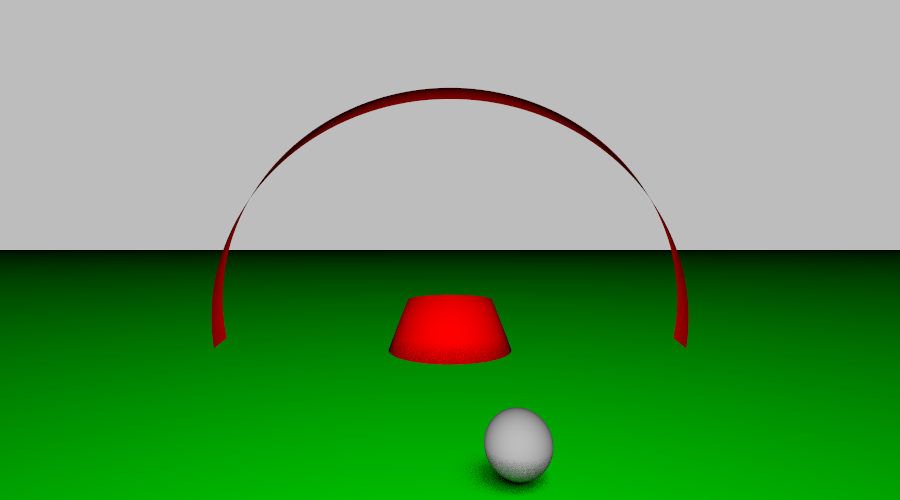
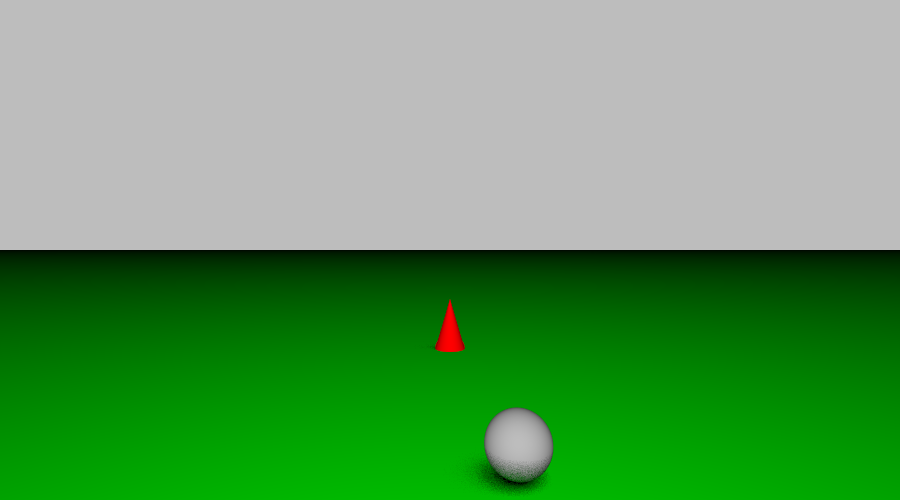
The ConeTestApp works now!

diff --git a/cgg-abgaben/src/cgg/Cone.java b/cgg-abgaben/src/cgg/Cone.java
@@ -26,7 +26,7 @@ public class Cone implements Shape {
 		Point x0 = Vector.subtract(ray.origin, m);
 
 		double a = Math.pow(ray.d.x, 2) + Math.pow(ray.d.z, 2) - Math.pow(r * ray.d.y / h, 2);
-		double b = 2 * (x0.x * ray.d.x + x0.z * ray.d.z + r * r * ray.d.y / h * (1 + x0.y / h));
+		double b = 2 * (x0.x * ray.d.x + x0.z * ray.d.z + r * r * ray.d.y / h * (1 - x0.y / h));
 		double c = x0.x * x0.x + x0.z * x0.z + r * r * (-1 + x0.y / h * (2 - x0.y / h));
 
 		double D = Math.pow(b, 2) - 4 * a * c;
@@ -71,7 +71,7 @@ public class Cone implements Shape {
 			hit.n = Vector.direction(0, -1, 0);
 		}
 		else {
-			hit.n = Vector.direction(hit.x.x, hit.x.y - Math.sqrt(hit.x.x*hit.x.x + hit.x.z * hit.x.z) * r / h, hit.x.z);
+			hit.n = Vector.direction(hit.x.x - pos.x, Math.sqrt( Math.pow(hit.x.x - pos.x,2) + Math.pow(hit.x.z - pos.z, 2) ) * r / h, hit.x.z - pos.z);
 			hit.n = Vector.normalize(hit.n);
 		}
 
